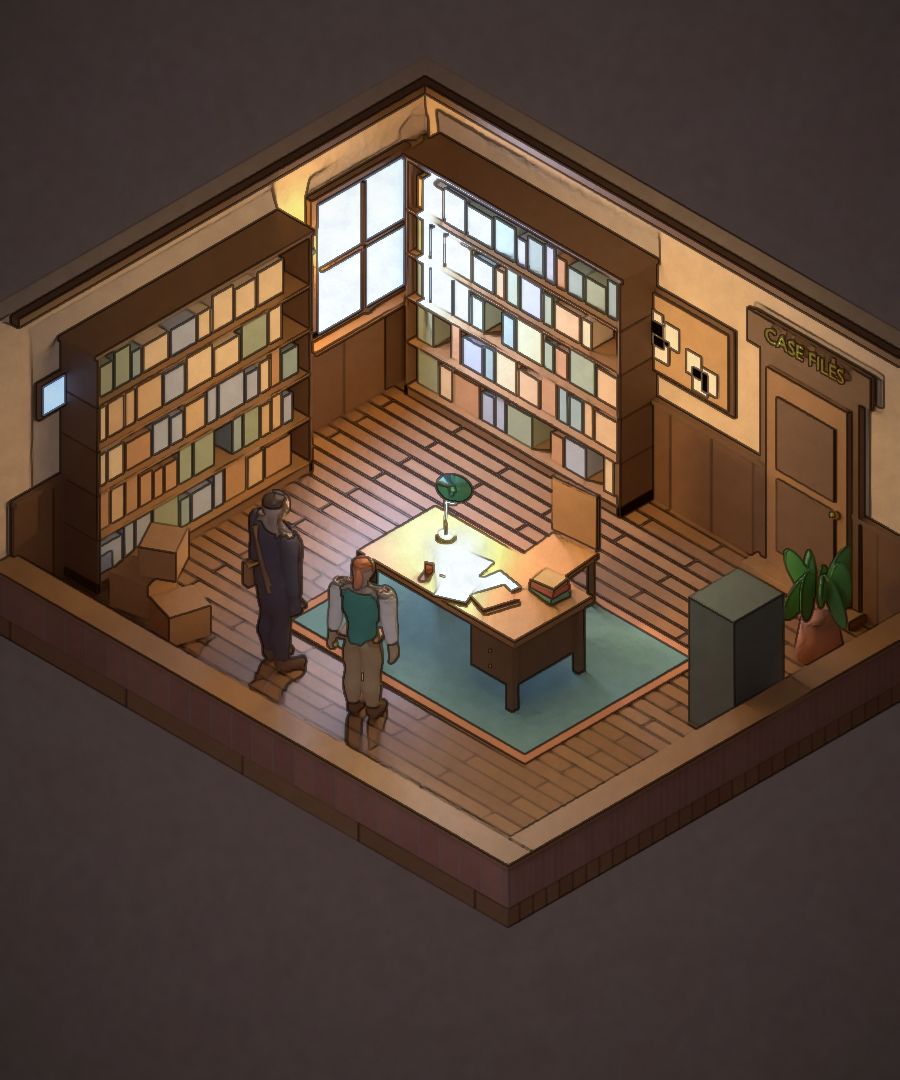
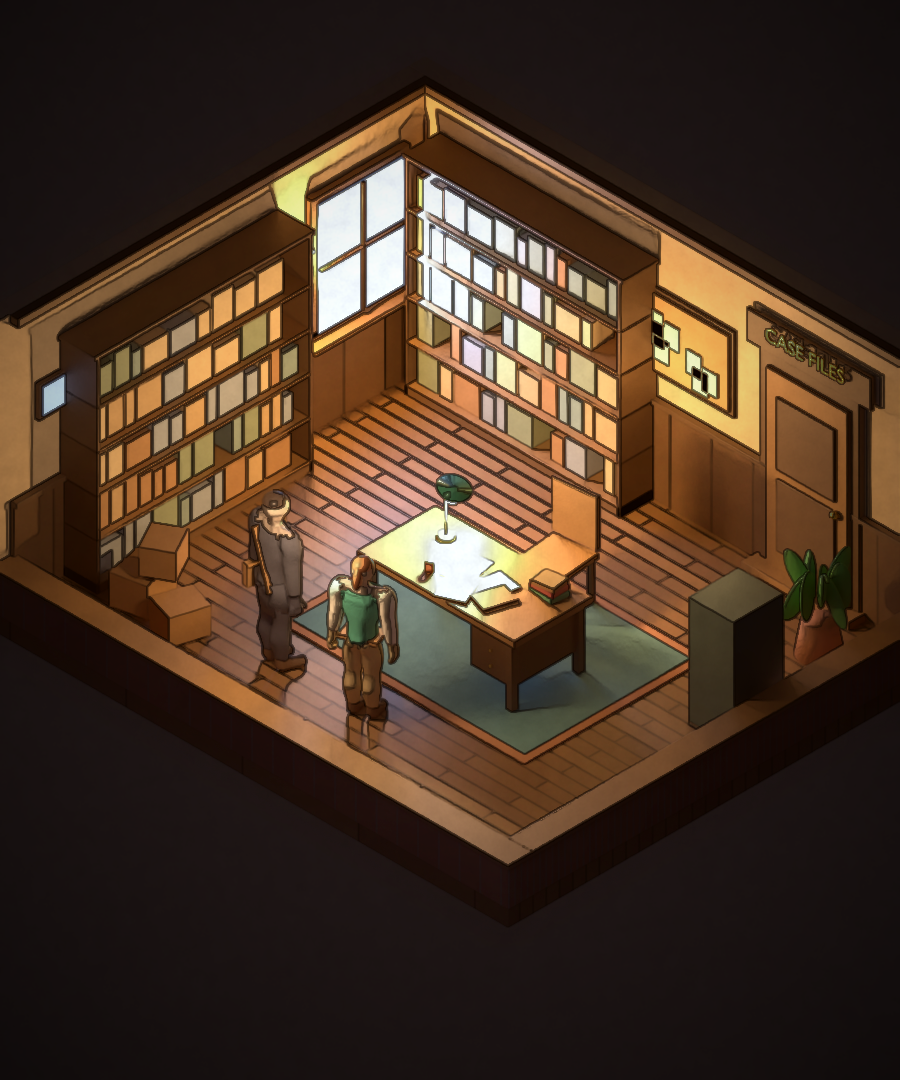
Hero Office: darker moody lighting with warm light pools
Claude-Session: https://claude.ai/code/session_018A3EjUJwum2xaBpGm7gsrV

diff --git a/games/mha-rpg/blender/room/hero_office.py b/games/mha-rpg/blender/room/hero_office.py
@@ -533,12 +533,15 @@ if CHAR_MODE == "3d":
     build_characters()
 
 # ---- lights ----------------------------------------------------------------------------------------
-light("LGT_DeskLamp", "POINT", (LAMP[0] + 0.1, LAMP[1], 1.22), (1.0, 0.62, 0.28), 260, 0.12)
-light("LGT_Lantern", "POINT", (0.28, 3.4, 1.9), (1.0, 0.58, 0.22), 90, 0.08)
-light("LGT_Window", "AREA", (0.35, WY, 1.7), (0.5, 0.65, 1.0), 170, 1.3, rot=(0, -math.pi / 2, 0))
-light("LGT_Fill", "AREA", (8.5, -5.5, 6.5), (0.75, 0.78, 1.0), 260, 5.0,
+light("LGT_DeskLamp", "POINT", (LAMP[0] + 0.1, LAMP[1], 1.22), (1.0, 0.58, 0.24), 520, 0.12)
+light("LGT_Lantern", "POINT", (0.28, 3.4, 1.9), (1.0, 0.55, 0.2), 220, 0.08)
+light("LGT_ShelfGlow", "POINT", (3.2, 4.4, 1.6), (1.0, 0.6, 0.25), 22, 0.1)
+light("LGT_DoorGlow", "POINT", (4.2, 4.3, 2.2), (1.0, 0.6, 0.28), 12, 0.1)
+light("LGT_Window", "AREA", (0.35, WY, 1.7), (0.42, 0.58, 1.0), 120, 1.3, rot=(0, -math.pi / 2, 0))
+light("LGT_Fill", "AREA", (8.5, -5.5, 6.5), (0.6, 0.65, 1.0), 45, 5.0,
       rot=(math.radians(52), 0, math.radians(45)))
-light("LGT_Warm", "AREA", (3.2, 2.4, 3.6), (1.0, 0.72, 0.45), 110, 3.0)
+light("LGT_Warm", "AREA", (3.2, 2.4, 3.6), (1.0, 0.72, 0.45), 18, 3.0)
+light("LGT_Actors", "POINT", (3.0, 0.2, 2.2), (1.0, 0.68, 0.4), 160, 0.3)   # keeps the characters readable
 
 # ---- camera: true isometric, orthographic ---------------------------------------------------------
 target = Vector((3.0, 2.3, 1.0))
@@ -560,6 +563,6 @@ w = sc.world
 if not w.node_tree:
     w.use_nodes = True
 bg = next(n for n in w.node_tree.nodes if n.type == "BACKGROUND")
-bg.inputs["Color"].default_value = (0.045, 0.035, 0.035, 1)
-bg.inputs["Strength"].default_value = 1.0
+bg.inputs["Color"].default_value = (0.02, 0.016, 0.018, 1)
+bg.inputs["Strength"].default_value = 0.5
 print("Hero Office built:", len(col.objects), "objects")

diff --git a/games/mha-rpg/blender/room/paint_filter.py b/games/mha-rpg/blender/room/paint_filter.py
@@ -42,7 +42,7 @@ f = np.clip(f, 0, 1) ** 0.95
 # 5) vignette
 yy, xx = np.mgrid[0:h, 0:w].astype(np.float32)
 r = np.sqrt(((xx - w / 2) / (w / 2)) ** 2 + ((yy - h * 0.48) / (h / 2)) ** 2)
-f *= (1.0 - 0.38 * np.clip(r - 0.55, 0, 1) ** 1.4)[..., None]
+f *= (1.0 - 0.55 * np.clip(r - 0.45, 0, 1) ** 1.3)[..., None]
 
 cv2.imwrite(dst, (np.clip(f, 0, 1) * 255).astype(np.uint8))
 print("painted", dst)
